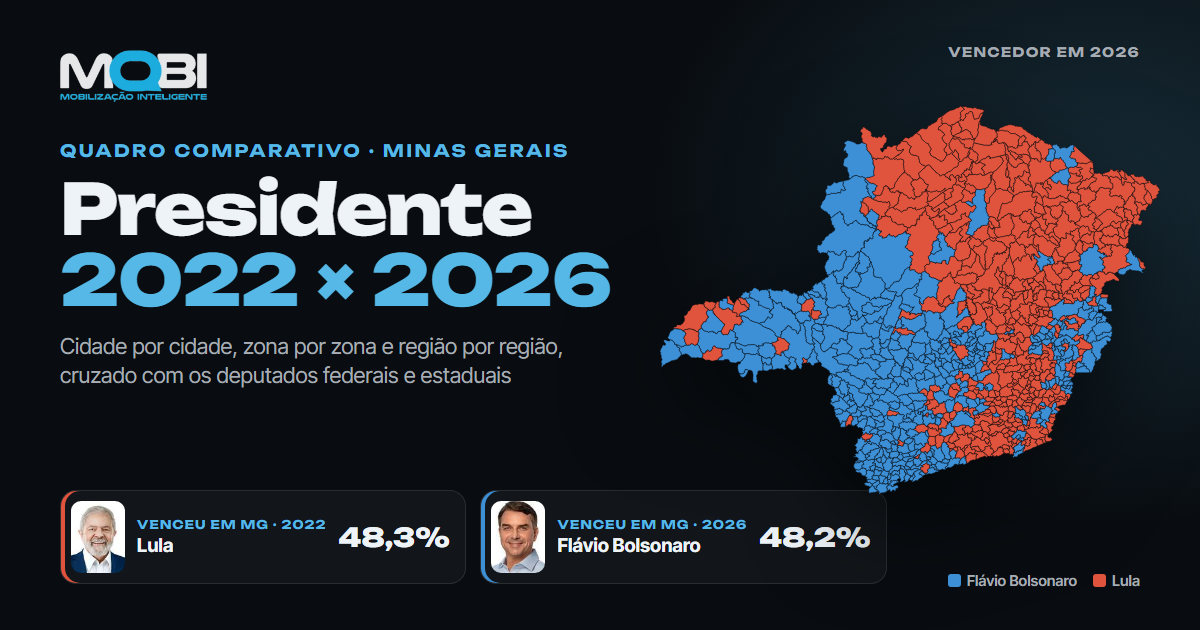
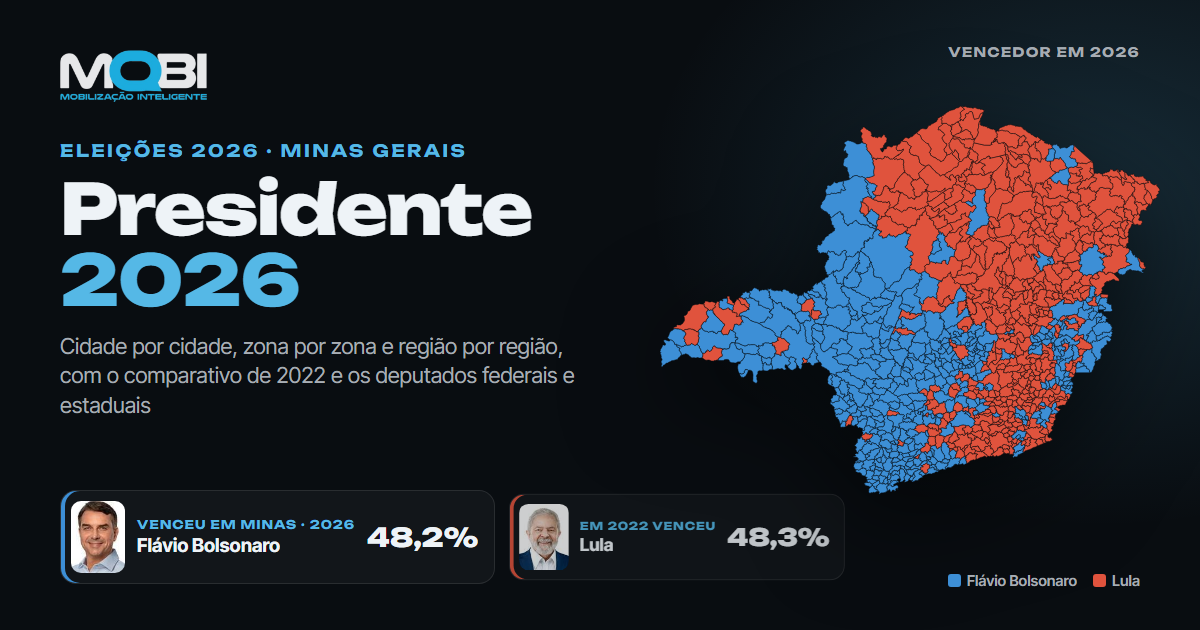
/presidente: 2026 em primeiro plano, 2022 como comparação
Título, destaques, quadro, tabelas, mapas, quadros flutuantes e imagem de compartilhamento começam por 2026.

diff --git a/presidente/app.js b/presidente/app.js
@@ -147,11 +147,15 @@ function destaques() {
   const maxB = cid.filter(c => c.aptos >= 50000).sort((a, b) => b.dBol - a.dBol)[0];
   const meL = me.slice().sort((a, b) => a.dLula - b.dLula)[0], meM = me.slice().sort((a, b) => b.dLula - a.dLula)[0];
   const abre = (u) => `data-abrir="${u.nivel}|${esc(u.chave)}"`;
+  const vF = cid.filter(c => familia(c.venc26) === "bolso"), vL = cid.filter(c => familia(c.venc26) === "lula");
+  const elF = vF.reduce((t, c) => t + c.aptos, 0), elT = cid.reduce((t, c) => t + c.aptos, 0);
   $("#destGrid").innerHTML = `
     <div class="dest forte"><span class="dl">Quem venceu em Minas em 2026</span><b>${esc(NOME_EXIBE(mg.venc26))}</b><span>${pct(mg.bol26)} contra ${pct(mg.lula26)} do Lula · diferença de ${int(Math.abs((mg.v26[FB] || 0) - (mg.v26[LULA] || 0)))} votos</span></div>
-    <div class="dest"><span class="dl">Lula em Minas · ${t22} → 2026</span><b class="${mg.dLula > 0 ? "pos" : "neg"}">${pp(mg.dLula)}</b><span>${pct(mg.lula22)} → ${pct(mg.lula26)}</span></div>
-    <div class="dest"><span class="dl">Bolsonaro · Jair (2022) → Flávio (2026)</span><b class="${mg.dBol > 0 ? "pos" : "neg"}">${pp(mg.dBol)}</b><span>${pct(mg.bol22)} → ${pct(mg.bol26)}</span></div>
-    <button class="dest" data-ir="mapa"><span class="dl">Cidades que mudaram de lado</span><b>${int(l2b + b2l)} <small>de ${int(cid.length)}</small></b><span>${int(l2b)} saíram do Lula para o Flávio · ${int(b2l)} do Bolsonaro para o Lula</span></button>
+    <div class="dest d26"><span class="dl">Resultado em Minas · 2026</span><b><span style="color:${COR.bolso}">${pct(mg.bol26)}</span> × <span style="color:${COR.lula}">${pct(mg.lula26)}</span></b><span>Flávio Bolsonaro × Lula · ${int(mg.t26)} votos válidos · abstenção ${pct(mg.abst26)}</span></div>
+    <button class="dest d26" data-ir="mapa"><span class="dl">Cidades em 2026</span><b>${int(vF.length)} <small>Flávio</small> · ${int(vL.length)} <small>Lula</small></b><span>As cidades do Flávio somam ${pct(elF / elT)} dos eleitores de Minas</span></button>
+    <div class="dest"><span class="dl">Comparado a 2022 · Lula (${t22})</span><b class="${mg.dLula > 0 ? "pos" : "neg"}">${pp(mg.dLula)}</b><span>${pct(mg.lula22)} em 2022 → ${pct(mg.lula26)} em 2026</span></div>
+    <div class="dest"><span class="dl">Comparado a 2022 · Jair → Flávio Bolsonaro</span><b class="${mg.dBol > 0 ? "pos" : "neg"}">${pp(mg.dBol)}</b><span>${pct(mg.bol22)} em 2022 → ${pct(mg.bol26)} em 2026</span></div>
+    <button class="dest" data-ir="mapa"><span class="dl">Cidades que mudaram de lado desde 2022</span><b>${int(l2b + b2l)} <small>de ${int(cid.length)}</small></b><span>${int(l2b)} saíram do Lula para o Flávio · ${int(b2l)} do Bolsonaro para o Lula</span></button>
     <button class="dest" ${abre(meL)}><span class="dl">Macrorregião onde o Lula mais caiu</span><b>${esc(meL.nome)}</b><span>${pp(meL.dLula)} · onde menos caiu: ${esc(meM.nome)} (${pp(meM.dLula)})</span></button>
     ${maxB ? `<button class="dest" ${abre(maxB)}><span class="dl">Maior avanço do Flávio sobre o Jair <small>(cidades com 50 mil+ eleitores)</small></span><b>${esc(maxB.nome)}</b><span>${pp(maxB.dBol)} · ${pct(maxB.bol22)} → ${pct(maxB.bol26)}</span></button>` : ""}`;
 }
@@ -167,20 +171,20 @@ function listaCand(v, tot, fotos, n = 12) {
 function quadro(u, alvo) {
   const t = E.turno === "1" ? "2022 · 1º turno" : "2022 · 2º turno";
   const cls = v => v > 0 ? "pos" : v < 0 ? "neg" : "";
-  alvo.innerHTML = `<div class="anos"><div class="card ano"><h4>${t}</h4>${listaCand(u.v22, u.t22, E.fotos22)}</div>
-    <div class="card ano"><h4>2026 · 1º turno</h4>${listaCand(u.v26, u.t26, E.fotos26)}</div></div>
+  alvo.innerHTML = `<div class="anos"><div class="card ano a26"><h4>2026 · 1º turno <span class="tag-ano">resultado</span></h4>${listaCand(u.v26, u.t26, E.fotos26)}</div>
+    <div class="card ano a22"><h4>${t} <span class="tag-ano cmp">comparação</span></h4>${listaCand(u.v22, u.t22, E.fotos22)}</div></div>
     <div class="delta">
-      <div class="card"><div class="l">Lula</div><div class="v ${cls(u.dLula)}">${pp(u.dLula)}</div><div class="s">${pct(u.lula22)} → ${pct(u.lula26)}<br>${int(u.v22[LULA])} → ${int(u.v26[LULA])} votos</div></div>
+      <div class="card ${u.virou ? "alerta" : ""}"><div class="l">Vencedor em 2026</div><div class="v txt">${esc(NOME_EXIBE(u.venc26))}</div><div class="s">em 2022: ${esc(NOME_EXIBE(u.venc22))}</div><div class="s">${u.virou ? "<b>mudou de lado</b>" : "manteve o lado"}</div></div>
+      <div class="card"><div class="l">Abstenção 2026</div><div class="v txt">${pct(u.abst26)}</div><div class="s">em 2022: ${pct(u.abst22)}</div></div>
+      <div class="card"><div class="l">Brancos e nulos 2026</div><div class="v txt">${pct(u.bn26)}</div><div class="s">em 2022: ${pct(u.bn22)}</div></div>
+      <div class="card"><div class="l">Votos válidos 2026</div><div class="v txt">${int(u.t26)}</div><div class="s">em 2022: ${int(u.t22)} · ${int(u.aptos)} eleitores</div></div>
+      <div class="card"><div class="l">Lula · variação</div><div class="v ${cls(u.dLula)}">${pp(u.dLula)}</div><div class="s">${pct(u.lula22)} → ${pct(u.lula26)}<br>${int(u.v22[LULA])} → ${int(u.v26[LULA])} votos</div></div>
       <div class="card"><div class="l">Jair (2022) → Flávio (2026)</div><div class="v ${cls(u.dBol)}">${pp(u.dBol)}</div><div class="s">${pct(u.bol22)} → ${pct(u.bol26)}<br>${int(u.v22[JB])} → ${int(u.v26[FB])} votos</div></div>
-      <div class="card ${u.virou ? "alerta" : ""}"><div class="l">Vencedor</div><div class="v txt">${esc(NOME_EXIBE(u.venc22))} → ${esc(NOME_EXIBE(u.venc26))}</div><div class="s">${u.virou ? "<b>mudou de lado</b>" : "manteve o lado"}</div></div>
-      <div class="card"><div class="l">Abstenção</div><div class="v txt">${pct(u.abst22)} → ${pct(u.abst26)}</div><div class="s">dos eleitores aptos</div></div>
-      <div class="card"><div class="l">Brancos e nulos</div><div class="v txt">${pct(u.bn22)} → ${pct(u.bn26)}</div><div class="s">dos votos</div></div>
-      <div class="card"><div class="l">Votos válidos</div><div class="v txt">${int(u.t22)} → ${int(u.t26)}</div><div class="s">para Presidente · ${int(u.aptos)} eleitores</div></div>
     </div>`;
 }
 
 /* ---------------- cores e legendas (compartilhadas por todos os mapas) */
-const MODOS = () => [["venc26", "Vencedor 2026"], ["venc22", "Vencedor 2022"], ["virou", "Mudou de lado"], ["dLula", "Δ Lula"], ["dBol", "Δ Bolsonaro"], ["lula26", "Lula 2026"], ["bol26", "Flávio 2026"], ["lula22", "Lula 2022"], ["bol22", "Jair 2022"], ["abst26", "Abstenção 2026"]]
+const MODOS = () => [["venc26", "Vencedor 2026"], ["bol26", "Flávio 2026"], ["lula26", "Lula 2026"], ["abst26", "Abstenção 2026"], ["venc22", "Vencedor 2022"], ["virou", "Mudou de lado"], ["dBol", "Δ Bolsonaro"], ["dLula", "Δ Lula"], ["bol22", "Jair 2022"], ["lula22", "Lula 2022"]]
   .concat(E.deps.flatMap((s, j) => [["rk" + j, `${s.d.nome} ${s.d.ano}: onde foi o mais votado`], ["dp" + j, `${s.d.nome} ${s.d.ano}: %`]])).concat(E.deps.length > 1 ? [["melhor", "Qual deputado foi melhor"]] : []);
 const mistura = (c, t) => { const a = parseInt(c.slice(1), 16), b = 0x11171d; const r = s => Math.round(((b >> s) & 255) * (1 - t) + ((a >> s) & 255) * t); return `rgb(${r(16)},${r(8)},${r(0)})`; };
 const rampa = c => [.18, .36, .56, .78, 1].map(t => mistura(c, t));
@@ -222,7 +226,7 @@ function legenda(modo, q) {
   return c.map((cor, i) => `<span><b style="background:${cor}"></b>${i === 0 ? "até " + f(q[0]) : i === 4 ? "acima de " + f(q[3]) : f(q[i - 1]) + " a " + f(q[i])}</span>`).join("") + `<span class="nota">(5 faixas com o mesmo número de lugares)</span>`;
 }
 function dica(u) {
-  return `<b>${esc(u.nome)}</b><br>2022: Lula ${pct(u.lula22)} · Jair ${pct(u.bol22)}<br>2026: Lula ${pct(u.lula26)} · Flávio ${pct(u.bol26)}<br>Δ Lula ${pp(u.dLula)} · Δ Bolsonaro ${pp(u.dBol)}${u.virou ? " · <b style='color:#fab219'>mudou de lado</b>" : ""}`
+  return `<b>${esc(u.nome)}</b><br><b>2026: Flávio ${pct(u.bol26)} · Lula ${pct(u.lula26)}</b><br>2022: Jair ${pct(u.bol22)} · Lula ${pct(u.lula22)}<br>Δ Lula ${pp(u.dLula)} · Δ Bolsonaro ${pp(u.dBol)}${u.virou ? " · <b style='color:#fab219'>mudou de lado</b>" : ""}`
     + (u.f26 ? `<br>Mais votados 2026: <b>${esc(u.f26[0].nome)}</b> (fed.) · <b>${esc(u.e26?.[0].nome)}</b> (est.)` : "")
     + (u.f22 ? `<br>Mais votados 2022: ${esc(u.f22[0].nome)} (fed.) · ${esc(u.e22?.[0].nome)} (est.)` : "")
     + E.deps.map((s, j) => `<br><i style="display:inline-block;width:8px;height:8px;border-radius:50%;background:${s.cor}"></i> ${esc(s.d.nome)} ${s.d.ano}: ${int(u["dv" + j])} votos (${pct(u["dp" + j], 2)})${u["rk" + j] ? ` · <b>${u["rk" + j] === 1 ? "1º, mais votado" : u["rk" + j] < 99 ? u["rk" + j] + "º" : "abaixo do 20º"}</b>` : ""}`).join("");
@@ -273,8 +277,8 @@ function cartaoRegiao(u, modo, q, cidMap) {
     <div class="rg-cab"><div><b>${esc(u.nivel === "me" ? u.nome : u.nome.replace(/^(Microrregião|Região intermediária|Região imediata) de /, ""))}</b><small>${int(muns.length)} ${muns.length === 1 ? "cidade" : "cidades"} · ${int(u.aptos)} eleitores</small></div>${localizador(muns.map(ibgeDe))}</div>
     ${miniSvg(itens)}
     <div class="rg-venc"><span class="venc"><i style="background:${corCand(u.venc26)}"></i>${esc(NOME_EXIBE(u.venc26))}</span>${u.virou ? '<span class="virou">virou</span>' : ""}</div>
-    <div class="rg-linha"><span>2026</span>${barra(u.lula26, u.bol26, COR.lula, COR.bolso)}<small>Lula ${pct(u.lula26)} · Flávio ${pct(u.bol26)}</small></div>
-    <div class="rg-linha"><span>2022</span>${barra(u.lula22, u.bol22, COR.lula, COR.bolso)}<small>Lula ${pct(u.lula22)} · Jair ${pct(u.bol22)}</small></div>
+    <div class="rg-linha a26"><span>2026</span>${barra(u.lula26, u.bol26, COR.lula, COR.bolso)}<small><b>Flávio ${pct(u.bol26)} · Lula ${pct(u.lula26)}</b></small></div>
+    <div class="rg-linha"><span>2022</span>${barra(u.lula22, u.bol22, COR.lula, COR.bolso)}<small>Jair ${pct(u.bol22)} · Lula ${pct(u.lula22)}</small></div>
     <div class="rg-chips"><span class="${u.dLula > 0 ? "pos" : "neg"}">Lula ${pp(u.dLula)}</span><span class="${u.dBol > 0 ? "pos" : "neg"}">Bolsonaro ${pp(u.dBol)}</span><span>${int(nLula)} de ${int(muns.length)} com Lula</span>${viraram ? `<span class="am">${int(viraram)} viraram</span>` : ""}</div>
     ${u.f26 ? `<div class="rg-top"><span>Mais votados 2026</span>${celTop(u.f26)}${celTop(u.e26)}</div>` : ""}
     <div class="rg-bts"><span class="rg-ver">Ver no mapa ↗</span><button type="button" class="btn mini" data-abrir="${u.nivel}|${esc(u.chave)}">Comparativo completo →</button></div>
@@ -306,14 +310,14 @@ let ord = {k: "aptos", dir: -1}, filtroTab = "";
 const COLS = () => [
   {t: "Lugar", k: "nome", f: u => `<b>${esc(u.nome)}</b>`},
   {t: "Eleitores", k: "aptos", f: u => int(u.aptos)},
-  {t: "Lula 22", k: "lula22", f: u => pct(u.lula22)}, {t: "Lula 26", k: "lula26", f: u => pct(u.lula26)},
-  {t: "Δ Lula", k: "dLula", f: u => `<span class="${u.dLula > 0 ? "pos" : "neg"}">${pp(u.dLula)}</span>`},
-  {t: "Jair 22", k: "bol22", f: u => pct(u.bol22)}, {t: "Flávio 26", k: "bol26", f: u => pct(u.bol26)},
+  {t: "Vencedor 2026", k: "venc26", f: u => `<span class="venc"><i style="background:${corCand(u.venc26)}"></i>${esc(NOME_EXIBE(u.venc26))}</span>${u.virou ? '<span class="virou">virou</span>' : ""}`},
+  {t: "Flávio 2026", k: "bol26", f: u => `<b>${pct(u.bol26)}</b>`}, {t: "Lula 2026", k: "lula26", f: u => `<b>${pct(u.lula26)}</b>`},
+  {t: "Abstenção 2026", k: "abst26", f: u => pct(u.abst26)}, {t: "Brancos+nulos 2026", k: "bn26", f: u => pct(u.bn26)},
+  {t: "Vencedor 2022", k: "venc22", f: u => `<span class="venc"><i style="background:${corCand(u.venc22)}"></i>${esc(NOME_EXIBE(u.venc22))}</span>`},
+  {t: "Jair 2022", k: "bol22", f: u => pct(u.bol22)}, {t: "Lula 2022", k: "lula22", f: u => pct(u.lula22)},
   {t: "Δ Bolsonaro", k: "dBol", f: u => `<span class="${u.dBol > 0 ? "pos" : "neg"}">${pp(u.dBol)}</span>`},
-  {t: "Vencedor 22", k: "venc22", f: u => `<span class="venc"><i style="background:${corCand(u.venc22)}"></i>${esc(NOME_EXIBE(u.venc22))}</span>`},
-  {t: "Vencedor 26", k: "venc26", f: u => `<span class="venc"><i style="background:${corCand(u.venc26)}"></i>${esc(NOME_EXIBE(u.venc26))}</span>${u.virou ? '<span class="virou">virou</span>' : ""}`},
-  {t: "Abstenção 22", k: "abst22", f: u => pct(u.abst22)}, {t: "Abstenção 26", k: "abst26", f: u => pct(u.abst26)},
-  {t: "Brancos+nulos 26", k: "bn26", f: u => pct(u.bn26)},
+  {t: "Δ Lula", k: "dLula", f: u => `<span class="${u.dLula > 0 ? "pos" : "neg"}">${pp(u.dLula)}</span>`},
+  {t: "Abstenção 2022", k: "abst22", f: u => pct(u.abst22)},
   {t: "Federal + votado 26", k: "f26n", f: u => celTop(u.f26)}, {t: "Estadual + votado 26", k: "e26n", f: u => celTop(u.e26)},
   {t: "Federal + votado 22", k: "f22n", f: u => celTop(u.f22)}, {t: "Estadual + votado 22", k: "e22n", f: u => celTop(u.e22)},
 ].concat(E.deps.flatMap((s, j) => [{t: `${s.d.nome} ${s.d.ano}: votos`, k: "dv" + j, cor: s.cor, f: u => int(u["dv" + j])}, {t: `${s.d.nome} ${s.d.ano}: %`, k: "dp" + j, cor: s.cor, f: u => pct(u["dp" + j], 2)}]));
@@ -445,7 +449,7 @@ function painelFoco(u, cidades) {
   const nLula = cidades.filter(c => familia(c.venc26) === "lula").length, vir = cidades.filter(c => c.virou).length;
   const barra = (a, b) => `<div class="duo"><i style="width:${a * 100}%;background:${COR.lula}"></i><i style="width:${b * 100}%;background:${COR.bolso}"></i></div>`;
   return `<div class="foco-cab"><span class="selo mini">${NIVEL1[E.foco.nivel]}</span><h3>${esc(u.nome)}</h3><p class="nota">${int(cidades.length)} ${cidades.length === 1 ? "cidade" : "cidades"} · ${int(u.aptos)} eleitores</p></div>
-    <div class="pop-pres"><div><span>2022</span>${barra(u.lula22, u.bol22)}<small>Lula ${pct(u.lula22)} · Jair ${pct(u.bol22)}</small></div><div><span>2026</span>${barra(u.lula26, u.bol26)}<small>Lula ${pct(u.lula26)} · Flávio ${pct(u.bol26)}</small></div></div>
+    <div class="pop-pres"><div class="a26"><span>2026</span>${barra(u.lula26, u.bol26)}<small><b>Flávio ${pct(u.bol26)} · Lula ${pct(u.lula26)}</b></small></div><div><span>2022</span>${barra(u.lula22, u.bol22)}<small>Jair ${pct(u.bol22)} · Lula ${pct(u.lula22)}</small></div></div>
     <div class="rg-chips"><span class="${u.dLula > 0 ? "pos" : "neg"}">Lula ${pp(u.dLula)}</span><span class="${u.dBol > 0 ? "pos" : "neg"}">Bolsonaro ${pp(u.dBol)}</span><span>${int(nLula)} de ${int(cidades.length)} com Lula</span>${vir ? `<span class="am">${int(vir)} viraram</span>` : ""}</div>
     ${u.f26 ? `<div class="rg-top"><span>Mais votados 2026</span>${celTop(u.f26)}${celTop(u.e26)}</div>` : ""}
     ${E.deps.length ? `<div class="rg-deps">${E.deps.map((s, j) => `<span><i style="background:${s.cor}"></i>${esc(s.d.nome)} ${s.d.ano}: <b>${pct(u["dp" + j], 2)}</b> · ${posTxt(u["rk" + j] ?? 99)}</span>`).join("")}</div>` : ""}
@@ -490,8 +494,8 @@ function popover(nivel, chave, ev) {
     <span class="selo mini">${NIVEL1[nivel]}</span><h3>${esc(u.nome)}</h3>
     <p class="nota">${int(u.aptos)} eleitores${u.virou ? ' · <b style="color:#fab219">mudou de lado</b>' : ""}</p>
     <div class="pop-pres">
-      <div><span>2022</span><div class="duo"><i style="width:${u.lula22 * 100}%;background:${COR.lula}"></i><i style="width:${u.bol22 * 100}%;background:${COR.bolso}"></i></div><small>Lula ${pct(u.lula22)} · Jair ${pct(u.bol22)}</small></div>
-      <div><span>2026</span><div class="duo"><i style="width:${u.lula26 * 100}%;background:${COR.lula}"></i><i style="width:${u.bol26 * 100}%;background:${COR.bolso}"></i></div><small>Lula ${pct(u.lula26)} · Flávio ${pct(u.bol26)}</small></div>
+      <div class="a26"><span>2026</span><div class="duo"><i style="width:${u.lula26 * 100}%;background:${COR.lula}"></i><i style="width:${u.bol26 * 100}%;background:${COR.bolso}"></i></div><small><b>Flávio ${pct(u.bol26)} · Lula ${pct(u.lula26)}</b> · venceu ${esc(NOME_EXIBE(u.venc26))}</small></div>
+      <div><span>2022</span><div class="duo"><i style="width:${u.lula22 * 100}%;background:${COR.lula}"></i><i style="width:${u.bol22 * 100}%;background:${COR.bolso}"></i></div><small>Jair ${pct(u.bol22)} · Lula ${pct(u.lula22)}</small></div>
     </div>
     <div class="rg-chips"><span class="${u.dLula > 0 ? "pos" : "neg"}">Lula ${pp(u.dLula)}</span><span class="${u.dBol > 0 ? "pos" : "neg"}">Bolsonaro ${pp(u.dBol)}</span><span>Abstenção ${pct(u.abst26)}</span></div>
     ${E.deps.length ? `<div class="rg-deps">${E.deps.map((s, j) => `<span><i style="background:${s.cor}"></i>${esc(s.d.nome)} ${s.d.ano}: <b>${int(u["dv" + j])}</b> votos (${pct(u["dp" + j], 2)}) · ${u["rk" + j] === 1 ? "<b>1º, o mais votado</b>" : u["rk" + j] < 99 ? `<b>${u["rk" + j]}º</b>` : "abaixo do 20º"}</span>`).join("")}</div>` : ""}
@@ -519,8 +523,8 @@ document.addEventListener("keydown", e => { if (e.key === "Escape") fecharPop();
 /* ---------------- lugar escolhido: mapa ampliado, comparativo, mais votados */
 function tabelaSub(titulo, rot, lista, nivelSub) {
   if (lista.length < 2) return "";
-  return `<h4 class="sub">${esc(titulo)} <small>${lista.length} · clique para abrir</small></h4><div class="tab-wrap" style="max-height:420px"><table><thead><tr><th>${rot}</th><th>Eleitores</th><th>Lula 22</th><th>Lula 26</th><th>Δ Lula</th><th>Jair 22</th><th>Flávio 26</th><th>Δ Bolsonaro</th><th>Vencedor 26</th><th>Federal + votado 26</th><th>Estadual + votado 26</th>${E.deps.map(s => `<th style="box-shadow:inset 0 -3px 0 ${s.cor}">${esc(s.d.nome)} ${s.d.ano}</th>`).join("")}</tr></thead>
-    <tbody>${lista.sort((a, b) => b.aptos - a.aptos).map(c => `<tr ${nivelSub ? `data-abrir="${nivelSub}|${esc(c.chave)}"` : ""}><td><b>${esc(c.nome)}</b></td><td>${int(c.aptos)}</td><td>${pct(c.lula22)}</td><td>${pct(c.lula26)}</td><td class="${c.dLula > 0 ? "pos" : "neg"}">${pp(c.dLula)}</td><td>${pct(c.bol22)}</td><td>${pct(c.bol26)}</td><td class="${c.dBol > 0 ? "pos" : "neg"}">${pp(c.dBol)}</td><td><span class="venc"><i style="background:${corCand(c.venc26)}"></i>${esc(NOME_EXIBE(c.venc26))}</span>${c.virou ? '<span class="virou">virou</span>' : ""}</td><td>${celTop(c.f26)}</td><td>${celTop(c.e26)}</td>${E.deps.map((s, j) => `<td>${int(c["dv" + j])} <small class="nota">${pct(c["dp" + j], 2)}</small></td>`).join("")}</tr>`).join("")}</tbody></table></div>`;
+  return `<h4 class="sub">${esc(titulo)} <small>${lista.length} · clique para abrir</small></h4><div class="tab-wrap" style="max-height:420px"><table><thead><tr><th>${rot}</th><th>Eleitores</th><th>Vencedor 2026</th><th>Flávio 2026</th><th>Lula 2026</th><th>Jair 2022</th><th>Lula 2022</th><th>Δ Bolsonaro</th><th>Δ Lula</th><th>Federal + votado 26</th><th>Estadual + votado 26</th>${E.deps.map(s => `<th style="box-shadow:inset 0 -3px 0 ${s.cor}">${esc(s.d.nome)} ${s.d.ano}</th>`).join("")}</tr></thead>
+    <tbody>${lista.sort((a, b) => b.aptos - a.aptos).map(c => `<tr ${nivelSub ? `data-abrir="${nivelSub}|${esc(c.chave)}"` : ""}><td><b>${esc(c.nome)}</b></td><td>${int(c.aptos)}</td><td><span class="venc"><i style="background:${corCand(c.venc26)}"></i>${esc(NOME_EXIBE(c.venc26))}</span>${c.virou ? '<span class="virou">virou</span>' : ""}</td><td><b>${pct(c.bol26)}</b></td><td><b>${pct(c.lula26)}</b></td><td>${pct(c.bol22)}</td><td>${pct(c.lula22)}</td><td class="${c.dBol > 0 ? "pos" : "neg"}">${pp(c.dBol)}</td><td class="${c.dLula > 0 ? "pos" : "neg"}">${pp(c.dLula)}</td><td>${celTop(c.f26)}</td><td>${celTop(c.e26)}</td>${E.deps.map((s, j) => `<td>${int(c["dv" + j])} <small class="nota">${pct(c["dp" + j], 2)}</small></td>`).join("")}</tr>`).join("")}</tbody></table></div>`;
 }
 async function topDeps(id, alvo, titulo) {
   const g = E.top[id]; if (!g) { alvo.innerHTML = ""; return; }

diff --git a/presidente/index.html b/presidente/index.html
@@ -3,13 +3,13 @@
 <head>
 <meta charset="utf-8">
 <meta name="viewport" content="width=device-width, initial-scale=1">
-<title>Presidente 2022 × 2026 · Minas Gerais · MOBI</title>
+<title>Presidente 2026 · Minas Gerais · MOBI</title>
 <meta name="description" content="Quadro comparativo da votação para Presidente em Minas Gerais, 2022 × 2026, por macrorregiões, regiões, zonas eleitorais e cidades, cruzado com os deputados federais e estaduais de 2022 e 2026. Dados oficiais do TSE.">
 <meta name="robots" content="noindex">
 <meta name="theme-color" content="#090d11">
 <meta property="og:type" content="website">
 <meta property="og:site_name" content="MOBI · Mobilização Inteligente">
-<meta property="og:title" content="Presidente 2022 × 2026 · Minas Gerais">
+<meta property="og:title" content="Presidente 2026 · Minas Gerais (com comparativo de 2022)">
 <meta property="og:description" content="Como Minas votou para Presidente em 2022 e 2026, cidade por cidade, zona por zona e região por região, cruzado com os deputados federais e estaduais. Dados oficiais do TSE.">
 <meta property="og:image" content="https://resultado.mobinteligente.com.br/presidente/og.png">
 <meta property="og:image:width" content="1200">
@@ -29,15 +29,15 @@
     <a href="/" aria-label="Resultados MOBI"><img src="marca/mobi-logo-light.png" alt="MOBI — Mobilização Inteligente"></a>
     <span class="tag"><span class="pulso parado"></span><span>Dados oficiais do TSE</span></span>
   </header>
-  <div class="kicker">Quadro comparativo · Minas Gerais</div>
-  <h1>Presidente <span class="azul">2022 × 2026</span></h1>
-  <p class="lead">Como Minas votou para Presidente em 2022 e em 2026: no estado, nas macrorregiões, nas regiões, nas zonas eleitorais e em cada cidade. E como os deputados federais e estaduais dos dois anos se saíram nesses mesmos lugares.</p>
+  <div class="kicker">Eleições 2026 · Minas Gerais</div>
+  <h1>Presidente <span class="azul">2026</span> <span class="h1-comp">e o comparativo com 2022</span></h1>
+  <p class="lead">Como Minas votou para Presidente em 2026: no estado, nas macrorregiões, nas regiões, nas zonas eleitorais e em cada cidade, com a comparação com 2022. E como os deputados federais e estaduais se saíram nesses mesmos lugares.</p>
 
   <section id="destaques" aria-label="Destaques"><div class="dest-grid" id="destGrid"><div class="carregando">Carregando os dados oficiais…</div></div></section>
 
   <div class="controles" id="controles">
     <nav class="modos" id="modos" role="tablist" aria-label="O que ver">
-      <button role="tab" data-g="pres" aria-selected="true"><span class="m-ico pres" aria-hidden="true"></span><span><b>Presidente</b><small>2022 × 2026</small></span></button>
+      <button role="tab" data-g="pres" aria-selected="true"><span class="m-ico pres" aria-hidden="true"></span><span><b>Presidente</b><small>2026 · e o comparativo com 2022</small></span></button>
       <button role="tab" data-g="deps" aria-selected="false"><span class="m-ico deps" aria-hidden="true"></span><span><b>Deputados <span id="nDeps" class="bolinha" hidden></span></b><small>federais e estaduais</small></span></button>
       <button role="tab" data-g="mesc" aria-selected="false"><span class="m-ico mesc" aria-hidden="true"></span><span><b>Presidente × Deputados</b><small>cruzamento</small></span></button>
       <button role="tab" data-g="lugar" aria-selected="false" id="abaLugar" hidden><span class="pin" aria-hidden="true"></span><span><b id="abaLugarNome">Lugar</b><small id="abaLugarTipo">lugar escolhido</small></span></button>
@@ -73,7 +73,7 @@
       <li><b>2</b><div><strong>Busque um lugar</strong><span>Cidade, zona ou região: abre o comparativo com mapa e mais votados</span></div></li>
       <li><b>3</b><div><strong>Compare deputados</strong><span>Até 4, de 2022 ou 2026, entre si e com o voto para Presidente</span></div></li>
     </ol>
-    <div class="sec-cab"><h2>Minas Gerais: 2022 × 2026</h2><p>Todos os candidatos a Presidente nos dois anos e o que mudou. <b>p.p.</b> = pontos percentuais (a diferença entre dois %).</p></div>
+    <div class="sec-cab"><h2>Minas Gerais: resultado de 2026</h2><p>Todos os candidatos a Presidente em 2026 e, ao lado, 2022 para comparar. <b>p.p.</b> = pontos percentuais (a diferença entre dois %).</p></div>
     <div id="quadro"></div>
     <div id="geralTop"></div>
     <div class="sec-cab" style="margin-top:30px"><h2>Macrorregiões num relance</h2><p>Cada mapa mostra quem venceu em 2026 em cada cidade da macrorregião. Veja todas as regiões e microrregiões na aba <a href="#regioes" data-ir="regioes">Regiões</a>.</p></div>

diff --git a/presidente/estilo.css b/presidente/estilo.css
@@ -381,3 +381,14 @@ hr.div{border:0;border-top:1px solid var(--border);margin:16px 0}
 @media (max-width:980px){.linha2 .barra-ctl{flex-basis:100%}.linha2 .busca.grande{flex:1 1 220px}}
 .linha2 .barra-ctl{flex-wrap:nowrap}@media (max-width:980px){.linha2 .barra-ctl{flex-wrap:wrap}}
 .linha2 .seg{flex-wrap:nowrap;white-space:nowrap;flex:0 0 auto}.linha2 .rot{white-space:nowrap}.linha2 .busca.grande{flex:0 1 260px;min-width:200px}
+
+/* 2026 em primeiro plano */
+h1 .h1-comp{display:block;font:600 clamp(16px,2.2vw,22px)/1.3 var(--sans,inherit);color:var(--muted);letter-spacing:0;margin-top:6px}
+.ano.a26{border-color:rgba(85,184,230,.55);background:linear-gradient(180deg,rgba(85,184,230,.1),transparent 160px),var(--card)}
+.ano.a22{opacity:.88}
+.ano.a22 .cand .v b{font-size:16px}
+.tag-ano{font:800 10px var(--sans,inherit);letter-spacing:.1em;padding:3px 7px;border-radius:5px;background:var(--brand);color:#0b1a24;vertical-align:3px;margin-left:6px}
+.tag-ano.cmp{background:rgba(255,255,255,.1);color:var(--muted)}
+.dest.d26{border-color:rgba(85,184,230,.35)}
+.a26 > span,.rg-linha.a26 span{color:var(--brand)!important}
+.rg-linha.a26 small b,.pop-pres .a26 small b{color:var(--fg)}
